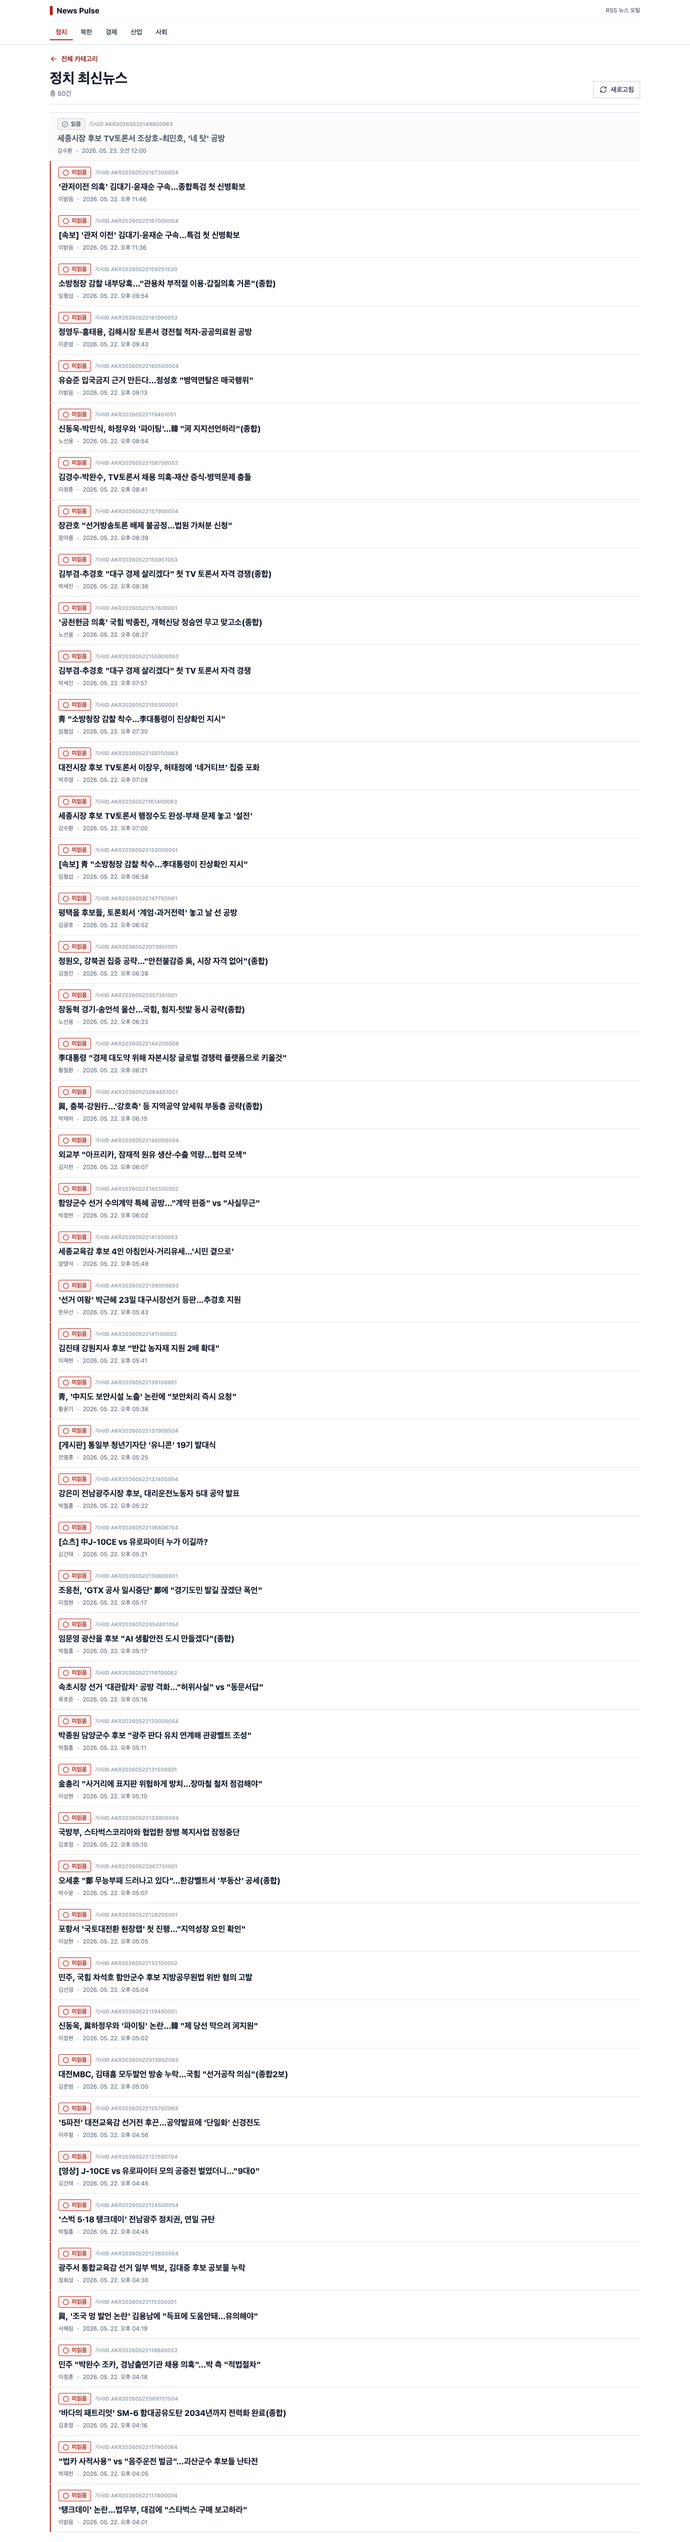
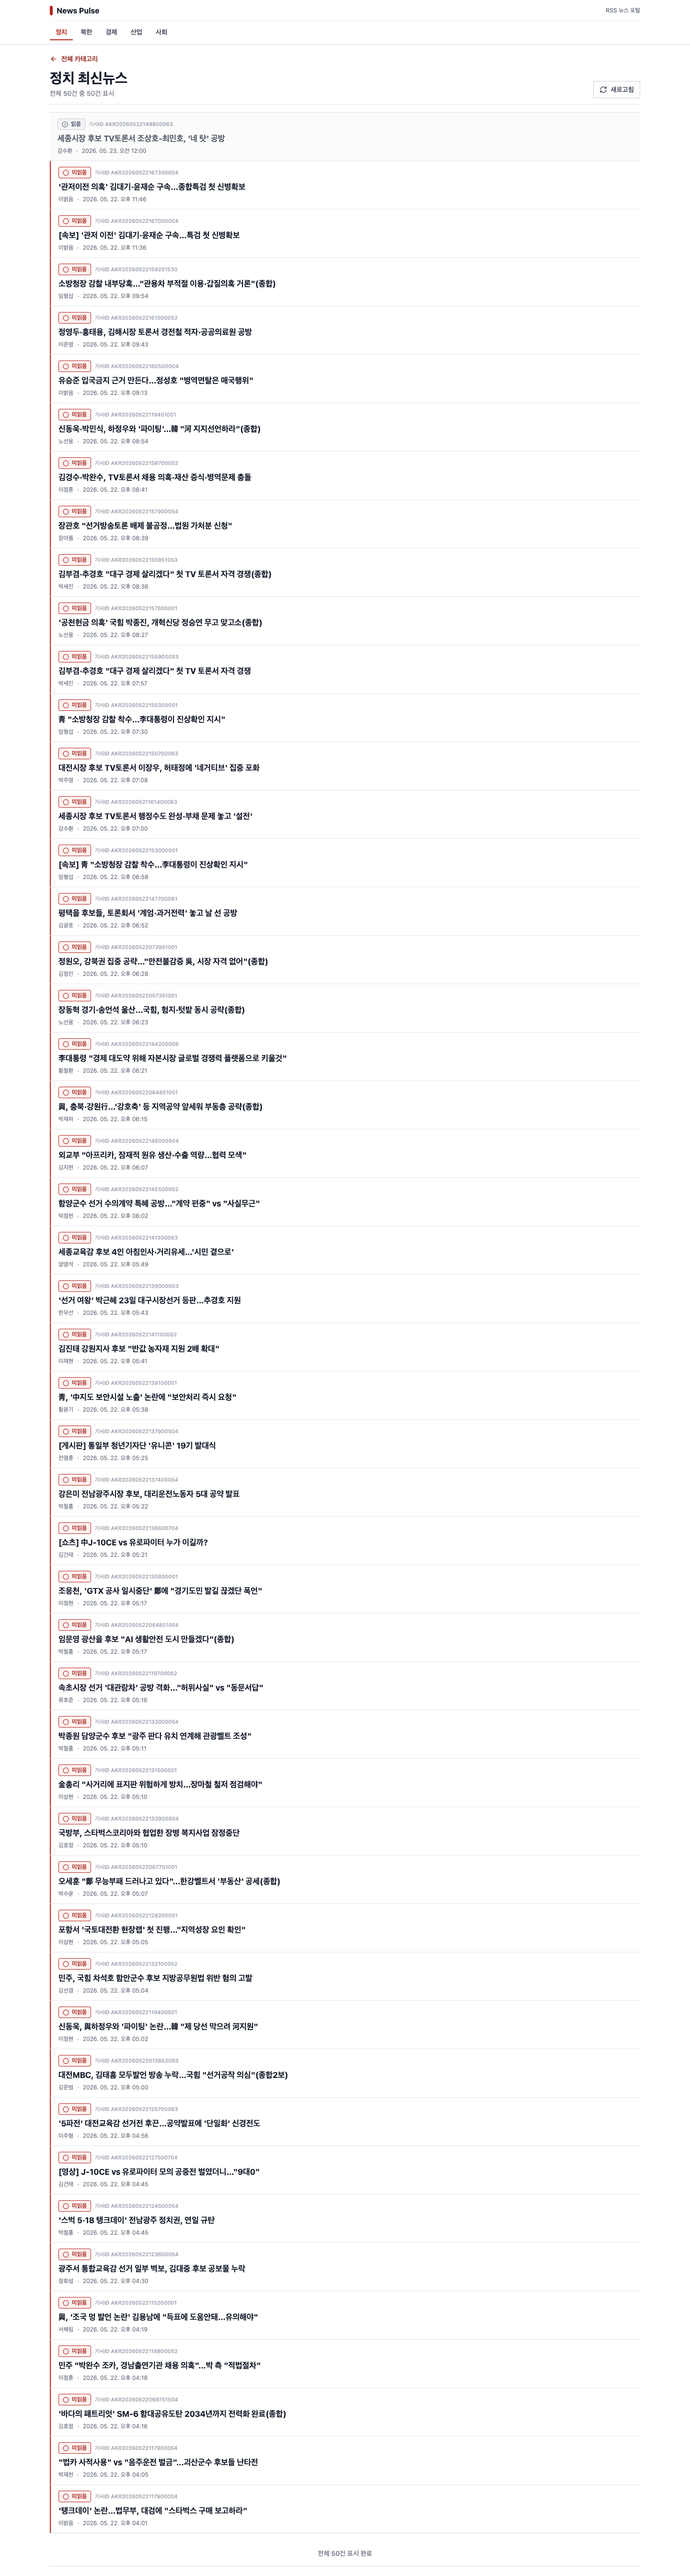
feat: 기사 목록 더보기 페이징 추가

Changed region(s): [[0.0625, 0.0, 0.4062, 0.9953]]

diff --git a/new-pulse-frontend/src/pages/ArticleListPage.test.tsx b/new-pulse-frontend/src/pages/ArticleListPage.test.tsx
@@ -1,7 +1,48 @@
 import { screen } from "@testing-library/react";
+import userEvent from "@testing-library/user-event";
 import { beforeEach, describe, expect, it, vi } from "vitest";
 import { renderWithProviders } from "../test/renderWithProviders";
 import { ArticleListPage } from "./ArticleListPage";
+
+function article(articleId: string, title: string) {
+  return {
+    articleId,
+    title,
+    link: `https://www.yna.co.kr/view/${articleId}`,
+    creator: "김기자",
+    publishedAt: "2026-05-18T14:42:49+09:00",
+    categories: ["POLITICS"],
+    read: false
+  };
+}
+
+function articlesResponse({
+  items,
+  totalCount = items.length,
+  offset = 0,
+  limit = 50,
+  hasNext = false,
+  nextOffset = null
+}: {
+  items: ReturnType<typeof article>[];
+  totalCount?: number;
+  offset?: number;
+  limit?: number;
+  hasNext?: boolean;
+  nextOffset?: number | null;
+}) {
+  return {
+    category: { code: "POLITICS", name: "정치" },
+    items,
+    page: {
+      totalCount,
+      limit,
+      offset,
+      hasNext,
+      nextOffset
+    }
+  };
+}
 
 describe("ArticleListPage", () => {
   beforeEach(() => {
@@ -9,24 +50,18 @@ describe("ArticleListPage", () => {
     vi.restoreAllMocks();
   });
 
-  it("기사 목록을 표시한다", async () => {
+  it("첫 page 기사와 표시 수를 보여준다", async () => {
     vi.stubGlobal(
       "fetch",
       vi.fn(async () =>
-        Response.json({
-          category: { code: "POLITICS", name: "정치" },
-          items: [
-            {
-              articleId: "AKR20260518104500055",
-              title: "정치 기사",
-              link: "https://www.yna.co.kr/view/AKR20260518104500055",
-              creator: "김기자",
-              publishedAt: "2026-05-18T14:42:49+09:00",
-              categories: ["POLITICS"],
-              read: false
-            }
-          ]
-        })
+        Response.json(
+          articlesResponse({
+            items: [article("AKR20260518104500055", "정치 기사")],
+            totalCount: 2,
+            hasNext: true,
+            nextOffset: 50
+          })
+        )
       )
     );
 
@@ -37,16 +72,91 @@ describe("ArticleListPage", () => {
 
     expect(await screen.findByRole("heading", { name: "정치 최신뉴스" })).toBeInTheDocument();
     expect(await screen.findByRole("link", { name: /정치 기사/ })).toBeInTheDocument();
+    expect(screen.getByText("전체 2건 중 1건 표시")).toBeInTheDocument();
+    expect(screen.getByRole("button", { name: "더보기" })).toBeInTheDocument();
+  });
+
+  it("더보기 클릭 시 다음 page 기사를 이어서 표시한다", async () => {
+    const user = userEvent.setup();
+    const fetchMock = vi.fn(async (input: RequestInfo | URL) => {
+      const url = new URL(String(input), "http://localhost");
+      const offset = Number(url.searchParams.get("offset") ?? "0");
+
+      if (offset === 50) {
+        return Response.json(
+          articlesResponse({
+            items: [article("AKR20260518104500056", "두 번째 정치 기사")],
+            totalCount: 2,
+            offset: 50,
+            hasNext: false,
+            nextOffset: null
+          })
+        );
+      }
+
+      return Response.json(
+        articlesResponse({
+          items: [article("AKR20260518104500055", "첫 번째 정치 기사")],
+          totalCount: 2,
+          offset: 0,
+          hasNext: true,
+          nextOffset: 50
+        })
+      );
+    });
+    vi.stubGlobal("fetch", fetchMock);
+
+    renderWithProviders(<ArticleListPage />, {
+      route: "/categories/POLITICS",
+      path: "/categories/:categoryCode"
+    });
+
+    expect(await screen.findByRole("link", { name: /첫 번째 정치 기사/ })).toBeInTheDocument();
+
+    await user.click(screen.getByRole("button", { name: "더보기" }));
+
+    expect(await screen.findByRole("link", { name: /두 번째 정치 기사/ })).toBeInTheDocument();
+    expect(screen.getByText("전체 2건 중 2건 표시")).toBeInTheDocument();
+    expect(screen.queryByRole("button", { name: "더보기" })).not.toBeInTheDocument();
+    expect(screen.getByText("전체 2건 표시 완료")).toBeInTheDocument();
+    expect(fetchMock).toHaveBeenCalledWith(expect.stringContaining("offset=50"), expect.any(Object));
+  });
+
+  it("다음 page가 없으면 더보기 버튼을 표시하지 않는다", async () => {
+    vi.stubGlobal(
+      "fetch",
+      vi.fn(async () =>
+        Response.json(
+          articlesResponse({
+            items: [article("AKR20260518104500055", "정치 기사")],
+            totalCount: 1,
+            hasNext: false,
+            nextOffset: null
+          })
+        )
+      )
+    );
+
+    renderWithProviders(<ArticleListPage />, {
+      route: "/categories/POLITICS",
+      path: "/categories/:categoryCode"
+    });
+
+    expect(await screen.findByRole("link", { name: /정치 기사/ })).toBeInTheDocument();
+    expect(screen.queryByRole("button", { name: "더보기" })).not.toBeInTheDocument();
+    expect(screen.getByText("전체 1건 표시 완료")).toBeInTheDocument();
   });
 
   it("빈 기사 목록 상태를 표시한다", async () => {
     vi.stubGlobal(
       "fetch",
       vi.fn(async () =>
-        Response.json({
-          category: { code: "POLITICS", name: "정치" },
-          items: []
-        })
+        Response.json(
+          articlesResponse({
+            items: [],
+            totalCount: 0
+          })
+        )
       )
     );
 

diff --git a/new-pulse-frontend/src/pages/ArticleListPage.tsx b/new-pulse-frontend/src/pages/ArticleListPage.tsx
@@ -22,7 +22,12 @@ export function ArticleListPage() {
   }
 
   const articlesQuery = useArticlesQuery(categoryCode, clientId);
-  const categoryName = articlesQuery.data?.category.name ?? getCategoryLabel(categoryCode);
+  const pages = articlesQuery.data?.pages ?? [];
+  const articles = pages.flatMap((page) => page.items);
+  const firstPage = pages[0];
+  const totalCount = firstPage?.page.totalCount ?? articles.length;
+  const displayedCount = articles.length;
+  const categoryName = firstPage?.category.name ?? getCategoryLabel(categoryCode);
 
   return (
     <section className="space-y-4">
@@ -39,12 +44,15 @@ export function ArticleListPage() {
             {categoryName} 최신뉴스
           </h1>
           {articlesQuery.isSuccess ? (
-            <p className="mt-1 text-sm text-[#6b7280]">총 {articlesQuery.data.items.length}건</p>
+            <p className="mt-1 text-sm text-[#6b7280]">
+              전체 {totalCount}건 중 {displayedCount}건 표시
+            </p>
           ) : null}
         </div>
         <button
           type="button"
           onClick={() => void articlesQuery.refetch()}
+          disabled={articlesQuery.isFetching && !articlesQuery.isFetchingNextPage}
           className="inline-flex h-9 items-center justify-center gap-2 border border-[#c7cdd6] bg-white px-3 text-sm font-semibold text-[#374151] hover:border-[#b42318] hover:text-[#b42318] sm:self-auto"
         >
           <RefreshCw aria-hidden="true" size={16} />
@@ -52,22 +60,38 @@ export function ArticleListPage() {
         </button>
       </div>
 
-      {articlesQuery.isLoading ? <LoadingBlock label="기사 목록을 불러오는 중" /> : null}
+      {articlesQuery.isPending ? <LoadingBlock label="기사 목록을 불러오는 중" /> : null}
 
       {articlesQuery.isError ? (
         <ErrorState message={articlesQuery.error.message} onRetry={() => void articlesQuery.refetch()} />
       ) : null}
 
-      {articlesQuery.isSuccess && articlesQuery.data.items.length === 0 ? (
+      {articlesQuery.isSuccess && articles.length === 0 ? (
         <EmptyState title="표시할 기사가 없습니다" description="RSS 수집 후 다시 확인해 주세요." />
       ) : null}
 
-      {articlesQuery.isSuccess && articlesQuery.data.items.length > 0 ? (
-        <ul className="divide-y divide-[#e5e7eb] border-y border-[#d8dee8] bg-white">
-          {articlesQuery.data.items.map((article) => (
-            <ArticleListItem key={article.articleId} article={article} categoryCode={categoryCode} />
-          ))}
-        </ul>
+      {articlesQuery.isSuccess && articles.length > 0 ? (
+        <>
+          <ul className="divide-y divide-[#e5e7eb] border-y border-[#d8dee8] bg-white">
+            {articles.map((article) => (
+              <ArticleListItem key={article.articleId} article={article} categoryCode={categoryCode} />
+            ))}
+          </ul>
+          <div className="flex justify-center border-b border-[#d8dee8] py-4">
+            {articlesQuery.hasNextPage ? (
+              <button
+                type="button"
+                onClick={() => void articlesQuery.fetchNextPage()}
+                disabled={articlesQuery.isFetchingNextPage}
+                className="inline-flex min-h-10 w-full items-center justify-center border border-[#c7cdd6] bg-white px-4 text-sm font-semibold text-[#374151] hover:border-[#b42318] hover:text-[#b42318] disabled:cursor-wait disabled:text-[#9ca3af] sm:w-auto"
+              >
+                {articlesQuery.isFetchingNextPage ? "불러오는 중" : "더보기"}
+              </button>
+            ) : (
+              <p className="text-sm font-medium text-[#6b7280]">전체 {totalCount}건 표시 완료</p>
+            )}
+          </div>
+        </>
       ) : null}
     </section>
   );

diff --git a/new-pulse-frontend/src/api/articles.ts b/new-pulse-frontend/src/api/articles.ts
@@ -6,24 +6,42 @@ import type {
 } from "../types/api";
 import { requestJson } from "./client";
 
+export const ARTICLE_PAGE_SIZE = 50;
+
 interface FetchArticlesParams {
   category: CategoryCode;
   clientId: string;
   limit?: number;
+  offset?: number;
 }
 
 export function fetchArticles({
   category,
   clientId,
-  limit = 50
+  limit = ARTICLE_PAGE_SIZE,
+  offset = 0
 }: FetchArticlesParams): Promise<ArticlesResponse> {
   const params = new URLSearchParams({
     category,
     clientId,
-    limit: String(limit)
+    limit: String(limit),
+    offset: String(offset)
   });
 
-  return requestJson<ArticlesResponse>(`/api/articles?${params.toString()}`);
+  return requestJson<Partial<ArticlesResponse> & Pick<ArticlesResponse, "category" | "items">>(
+    `/api/articles?${params.toString()}`
+  ).then((response) => ({
+    ...response,
+    page:
+      response.page ??
+      {
+        totalCount: response.items.length,
+        limit,
+        offset,
+        hasNext: false,
+        nextOffset: null
+      }
+  }));
 }
 
 export function fetchArticle(articleId: string, clientId: string): Promise<ArticleDetail> {

diff --git a/new-pulse-frontend/src/hooks/useArticles.ts b/new-pulse-frontend/src/hooks/useArticles.ts
@@ -1,11 +1,25 @@
-import { useMutation, useQuery, useQueryClient } from "@tanstack/react-query";
-import { fetchArticle, fetchArticles, markArticleRead } from "../api/articles";
+import { useInfiniteQuery, useMutation, useQuery, useQueryClient } from "@tanstack/react-query";
+import { ARTICLE_PAGE_SIZE, fetchArticle, fetchArticles, markArticleRead } from "../api/articles";
 import type { CategoryCode } from "../types/api";
 
 export function useArticlesQuery(category: CategoryCode, clientId: string) {
-  return useQuery({
+  return useInfiniteQuery({
     queryKey: ["articles", category, clientId],
-    queryFn: () => fetchArticles({ category, clientId })
+    queryFn: ({ pageParam }) =>
+      fetchArticles({
+        category,
+        clientId,
+        limit: ARTICLE_PAGE_SIZE,
+        offset: pageParam
+      }),
+    initialPageParam: 0,
+    getNextPageParam: (lastPage) => {
+      if (!lastPage.page.hasNext) {
+        return undefined;
+      }
+
+      return lastPage.page.nextOffset ?? lastPage.page.offset + lastPage.page.limit;
+    }
   });
 }
 

diff --git a/new-pulse-frontend/src/types/api.ts b/new-pulse-frontend/src/types/api.ts
@@ -34,9 +34,18 @@ export interface ArticleSummary {
   read: boolean;
 }
 
+export interface ArticlePageMetadata {
+  totalCount: number;
+  limit: number;
+  offset: number;
+  hasNext: boolean;
+  nextOffset: number | null;
+}
+
 export interface ArticlesResponse {
   category: CategoryRef;
   items: ArticleSummary[];
+  page: ArticlePageMetadata;
 }
 
 export type ArticleDetail = ArticleSummary;
